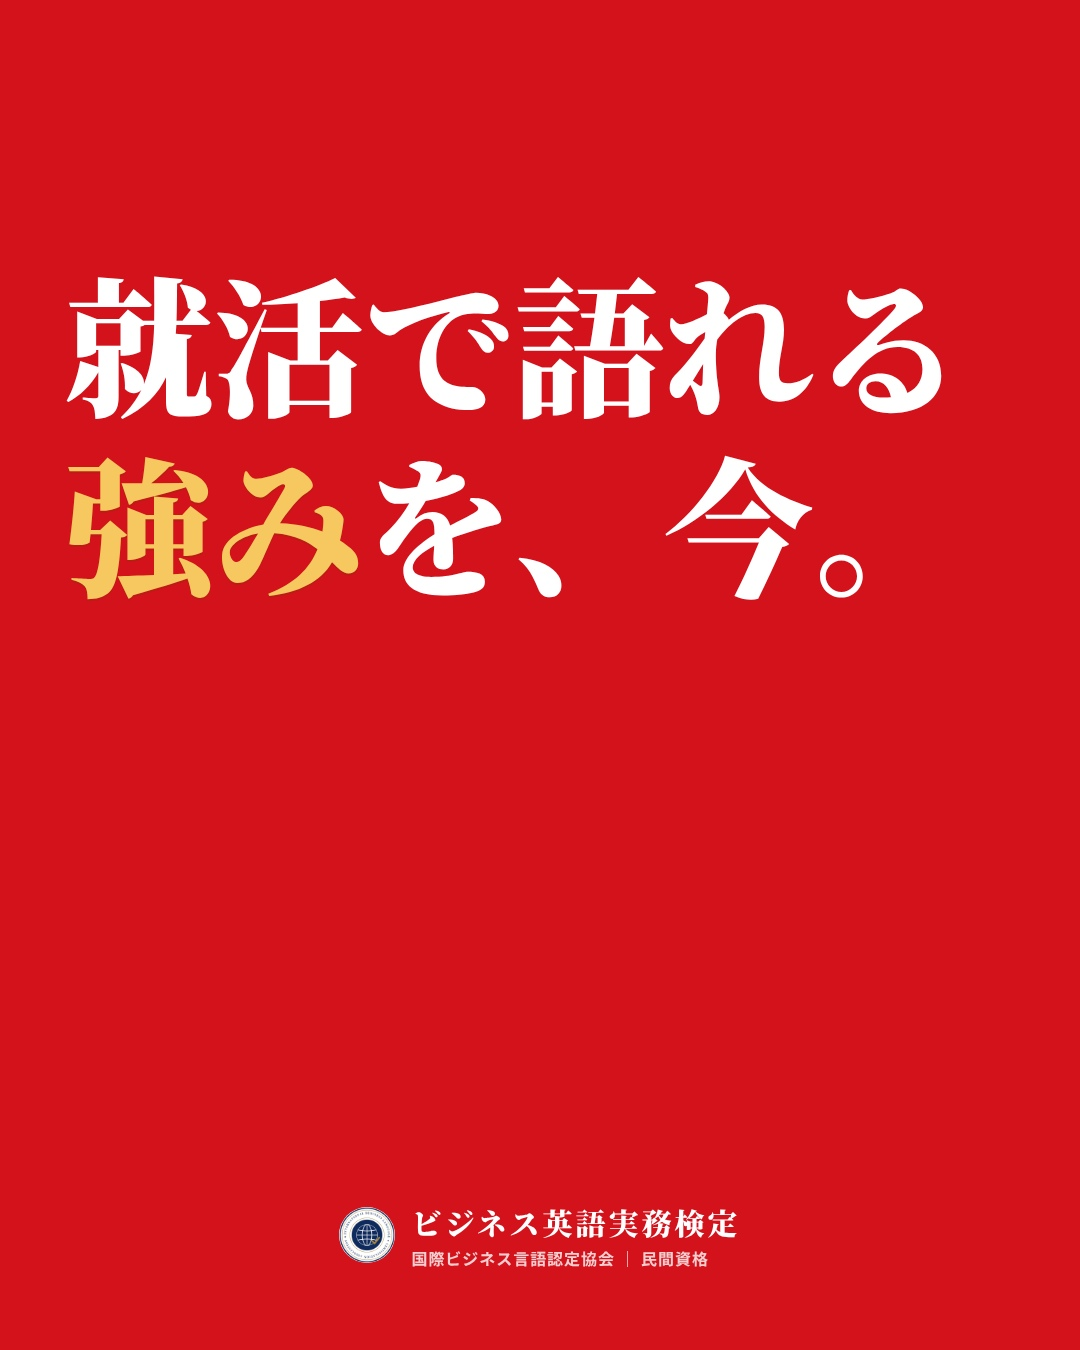
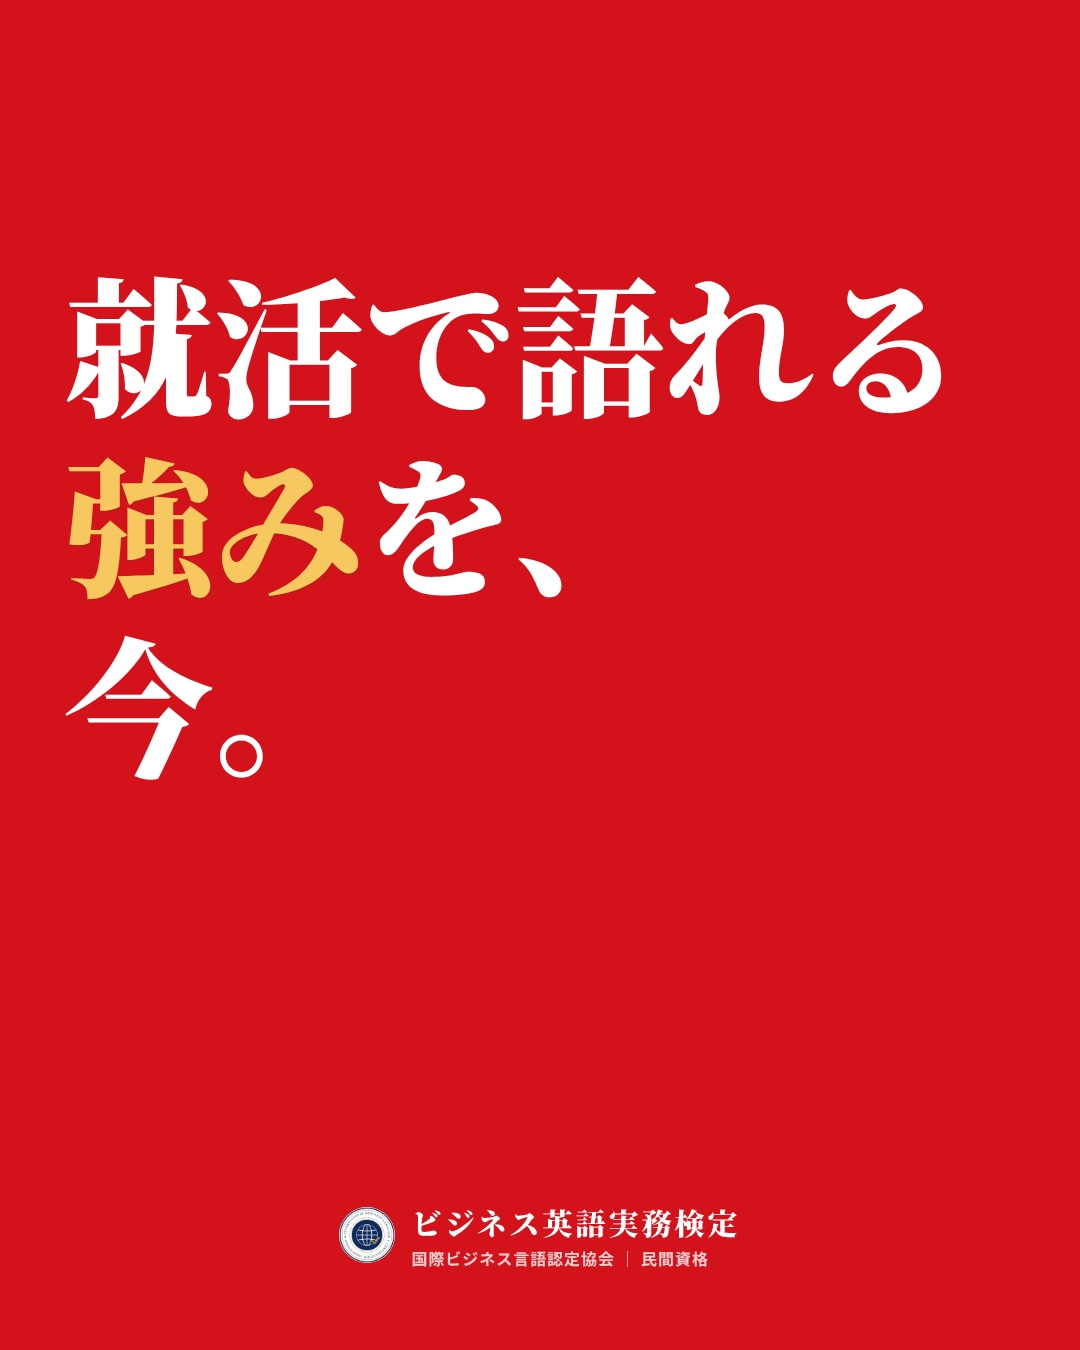
ポスター J2：今。を別の行に
Claude-Session: https://claude.ai/code/session_014p5jKzC7vmuyPAkeTgUdi2

Changed region(s): [[0.0611, 0.4667, 0.2444, 0.5911], [0.6111, 0.3422, 0.7639, 0.4667], [0.7639, 0.4044, 0.7944, 0.4667]]

diff --git a/content/posters/formats/j2.html b/content/posters/formats/j2.html
@@ -11,6 +11,6 @@ body{background:#d3121c;color:#fff;font-family:"Noto Serif CJK JP",serif;-webkit
 .ft img{width:56px;height:56px;border-radius:50%;background:#fff}.ft .n{font-weight:900;font-size:30px;letter-spacing:.1em}
 .ft .s{font-family:"Noto Sans CJK JP";font-weight:700;font-size:16px;letter-spacing:.06em;opacity:.8;margin-top:2px}
 .g{color:#f6c85f;text-shadow:0 2px 0 rgba(120,60,0,.25)}</style></head><body>
-<div class="w"><div class="b">就活で語れる<br><span class="g">強み</span>を、今。</div></div>
+<div class="w"><div class="b">就活で語れる<br><span class="g">強み</span>を、<br>今。</div></div>
 <div class="ft"><img src="logo.png"><div><div class="n">ビジネス英語実務検定</div><div class="s">国際ビジネス言語認定協会 ｜ 民間資格</div></div></div>
 </body></html>

diff --git a/log/posted.md b/log/posted.md
@@ -155,3 +155,4 @@
 - 2026-11-02 修正｜ポスター I3：文字を左上寄りに
 - 2026-11-02 作成（未予約）｜videos/p02_tt_tsuyomi.mp4・p02_ig_tsuyomi.mp4（「就活で語れる強みを。」の縦長2秒動画。予約の指示と勘違いして作成、Metricool には入れていない）
 - 2026-11-02 作成｜ポスター J1「今から、就活で語れる強みを。」／J2「就活で語れる強みを、今。」（強みは金）｜サンプル・未投稿
+- 2026-11-02 修正｜ポスター J2：「今。」だけ別の行に
